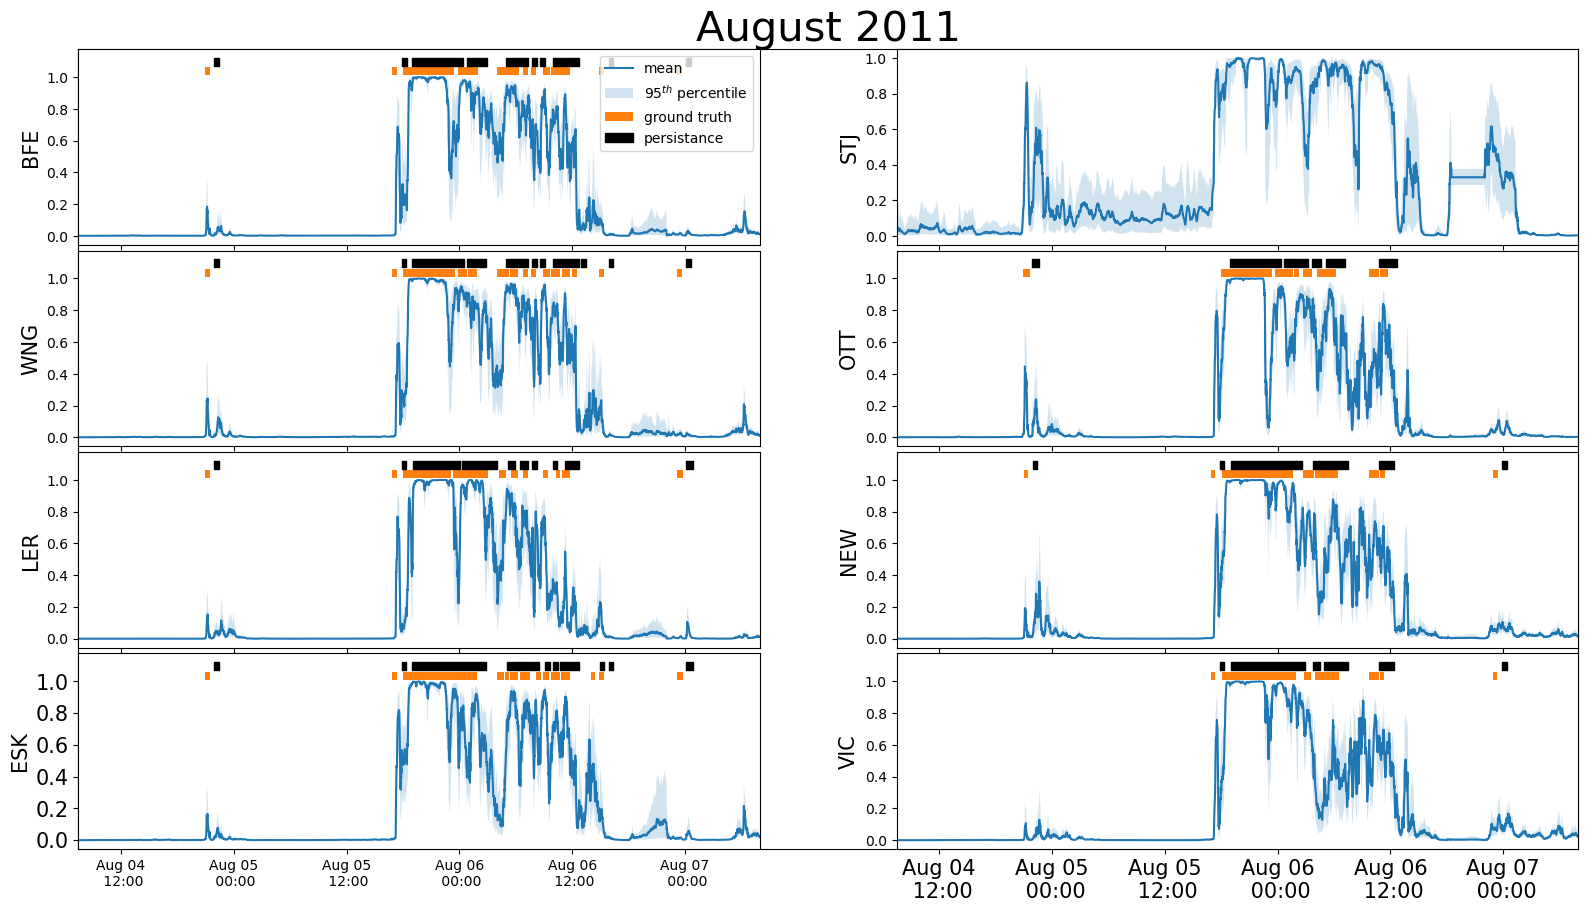
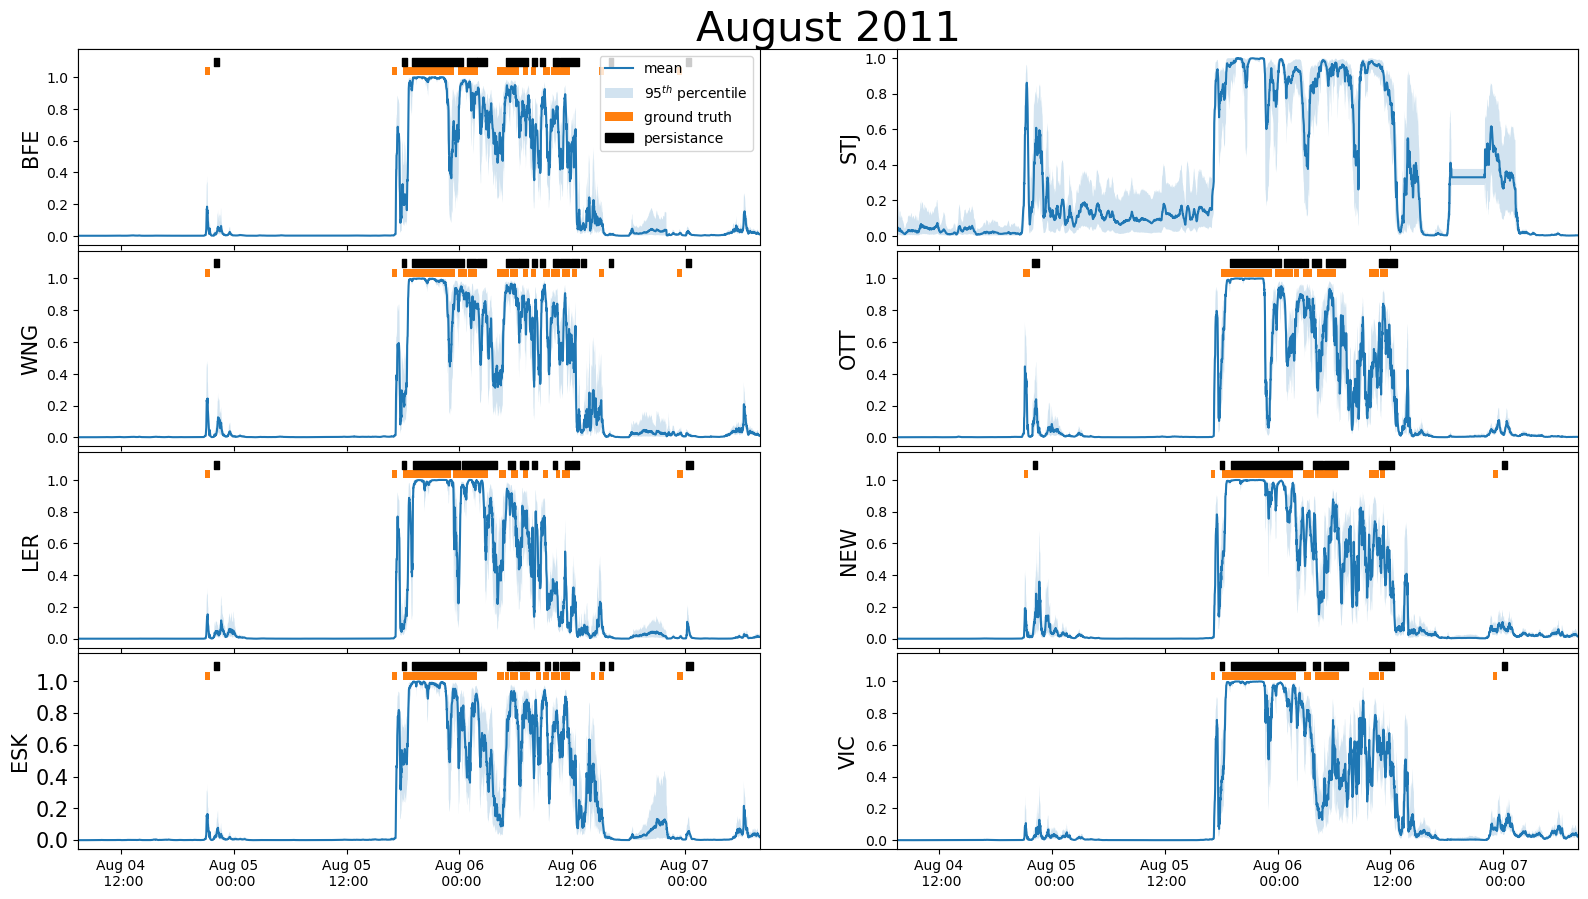
updating plots

diff --git a/plotting.py b/plotting.py
@@ -521,7 +521,7 @@ def plot_model_outputs(results_dict, storm, splits, title, stime, etime):
 	ax8.margins(x=0)
 	ax8.set_ylabel('VIC', fontsize='15')
 	plt.yticks(fontsize='10')
-	plt.xticks(fontsize=15)
+	plt.xticks(fontsize=10)
 	ax8.xaxis.set_major_formatter(mdates.DateFormatter('%b %d\n %H:%M'))			# adds the date to the bottom of the plot
 
 	plt.savefig('plots/k_fold_{0}_storm.png'.format(storm), bbox_inches='tight')		# saves the plot
